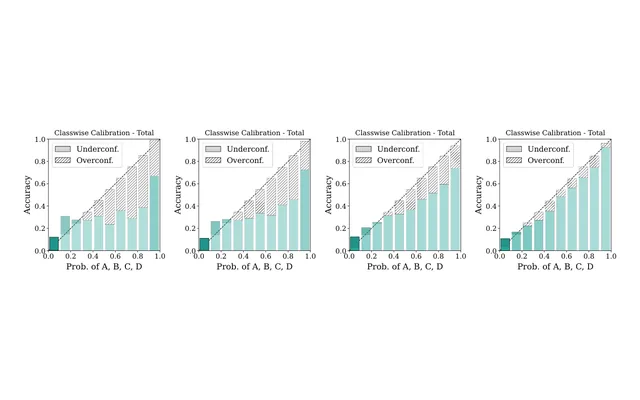
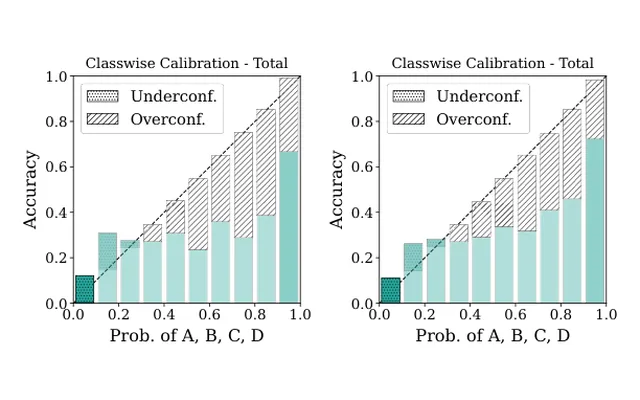
Experience from the résumé, final thumbnails, README and review notes [preview]
Claude-Session: https://claude.ai/code/session_01BAuoegmM5Ps66Ab4iXui3G

Changed region(s): [[0.0312, 0.12, 0.9688, 0.87]]

diff --git a/_pages/about.html b/_pages/about.html
@@ -26,7 +26,7 @@ redirect_from:
     <h1 class="name">Bojian Hou</h1>
     <p class="aka">also published as Bo-Jian Hou · 侯博建</p>
     <p>I am an <strong>AI Research Scientist</strong> at <strong>Meta</strong> in Monetization and Meta Recommendation Systems (MRS). My work centers on LLM-style model architectures and scaling laws for massive-scale ads ranking (e.g., <a href="{{ '/publications/' | relative_url }}#kunlun-kdd26">Kunlun</a>, KDD 2026) and on representation learning that connects organic and ads signals for ranking and retrieval. I also continue my research on trustworthy large language models, especially calibration, uncertainty estimation, and preference alignment.</p>
-    <p>Before joining Meta, I was a postdoctoral researcher in the <a href="https://www.dbei.med.upenn.edu/">Department of Biostatistics, Epidemiology and Informatics</a> at the <a href="https://www.upenn.edu/">University of Pennsylvania</a>, advised by Prof. <a href="https://www.dbei.med.upenn.edu/bio/li-shen-phd-faimbe">Li Shen</a>, where I led a Trustworthy AI research line and mentored 20+ students. Earlier, I was a postdoctoral associate at <a href="https://www.cornell.edu/">Cornell University</a>. I received my B.Sc. and Ph.D. in Computer Science from <a href="https://www.nju.edu.cn/">Nanjing University</a> in 2014 and 2020, supervised by Prof. <a href="https://cs.nju.edu.cn/zhouzh/">Zhi-Hua Zhou</a> in the <a href="https://www.lamda.nju.edu.cn/MainPage.ashx">LAMDA Group</a>.</p>
+    <p>Before joining Meta, I was a postdoctoral fellow in the <a href="https://www.dbei.med.upenn.edu/">Department of Biostatistics, Epidemiology and Informatics</a> at the <a href="https://www.upenn.edu/">University of Pennsylvania</a>, advised by Prof. <a href="https://www.dbei.med.upenn.edu/bio/li-shen-phd-faimbe">Li Shen</a>, where I led a Trustworthy AI research line and mentored 20+ students. Earlier, I was a postdoctoral associate at <a href="https://www.cornell.edu/">Cornell University</a> and a research scientist at 4Paradigm. I received my B.Sc. and Ph.D. in Computer Science from <a href="https://www.nju.edu.cn/">Nanjing University</a> in 2014 and 2020, supervised by Prof. <a href="https://cs.nju.edu.cn/zhouzh/">Zhi-Hua Zhou</a> in the <a href="https://www.lamda.nju.edu.cn/MainPage.ashx">LAMDA Group</a>.</p>
     <p>I am interested in both the theoretical foundations and the real-world deployment of machine learning, and in building AI systems that are technically rigorous, trustworthy, and socially responsible.</p>
   </div>
 </section>
@@ -87,11 +87,12 @@ redirect_from:
   <section class="section" id="experience" aria-labelledby="exp-h">
     <h2 id="exp-h">Experience and Education</h2>
     <ul class="timeline">
-      <li><span class="when">2025 to now</span><span><strong>Meta</strong><br>AI Research Scientist, Meta Recommendation Systems</span></li>
-      <li><span class="when">2022 to 2025</span><span><strong>University of Pennsylvania</strong><br>Postdoctoral Researcher, Department of Biostatistics, Epidemiology and Informatics. Advisor: Prof. Li Shen</span></li>
+      <li><span class="when">2025 to now</span><span><strong>Meta</strong><br>AI Research Scientist, Monetization and Meta Recommendation Systems</span></li>
+      <li><span class="when">2022 to 2025</span><span><strong>University of Pennsylvania</strong><br>Postdoctoral Fellow, Department of Biostatistics, Epidemiology and Informatics. Advisor: Prof. Li Shen</span></li>
       <li><span class="when">2021 to 2022</span><span><strong>Cornell University</strong><br>Postdoctoral Associate</span></li>
-      <li><span class="when">2020</span><span><strong>Nanjing University</strong><br>Ph.D. in Computer Science, LAMDA Group. Advisor: Prof. Zhi-Hua Zhou</span></li>
-      <li><span class="when">2014</span><span><strong>Nanjing University</strong><br>B.Sc. in Computer Science</span></li>
+      <li><span class="when">2020 to 2021</span><span><strong>4Paradigm</strong><br>Research Scientist</span></li>
+      <li><span class="when">2014 to 2020</span><span><strong>Nanjing University</strong><br>Ph.D. in Computer Science, LAMDA Group. Advisor: Prof. Zhi-Hua Zhou</span></li>
+      <li><span class="when">2010 to 2014</span><span><strong>Nanjing University</strong><br>B.Sc. in Computer Science</span></li>
     </ul>
   </section>
   <section class="section" id="awards" aria-labelledby="awards-h">

diff --git a/README.md b/README.md
@@ -1,31 +1,42 @@
-A Github Pages template for academic websites. This was forked (then detached) by [Stuart Geiger](https://github.com/staeiou) from the [Minimal Mistakes Jekyll Theme](https://mmistakes.github.io/minimal-mistakes/), which is © 2016 Michael Rose and released under the MIT License. See LICENSE.md.
+# bojianhou.com
 
-I think I've got things running smoothly and fixed some major bugs, but feel free to file issues or make pull requests if you want to improve the generic template / theme.
+Personal homepage of Bojian Hou, built with Jekyll and served by GitHub Pages from `master`.
+Originally based on the [AcademicPages](https://github.com/academicpages/academicpages.github.io) template
+(itself derived from Minimal Mistakes, MIT License; see `LICENSE`).
 
-### Note: if you are using this repo and now get a notification about a security vulnerability, delete the Gemfile.lock file. 
+## Where things live
 
-# Instructions
+| What | File |
+|---|---|
+| Publications (one entry per paper; drives the homepage and `/publications/`) | `_data/publications.yml` |
+| Topic filters | `_data/topics.yml` |
+| News | `_data/news.yml` |
+| Honors and awards | `_data/awards.yml` |
+| Academic service summary | `_data/service.yml` (full list in `_pages/services.md`) |
+| Research interest areas | `_data/research.yml` |
+| Navigation, selected papers, venue list | `_data/site.yml` |
+| Page templates | `_layouts/rd.html`, `_includes/rd-*.html`, `_includes/pub-*.html`, `_includes/news-list.html` |
+| Styles and script | `assets/css/site.scss`, `assets/js/site.js` |
+| Paper thumbnails | `images/pubs/<id>.webp` |
+| Resume PDF | `files/Bojian_Hou_Resume.pdf` |
 
-1. Register a GitHub account if you don't have one and confirm your e-mail (required!)
-1. Fork [this repository](https://github.com/academicpages/academicpages.github.io) by clicking the "fork" button in the top right. 
-1. Go to the repository's settings (rightmost item in the tabs that start with "Code", should be below "Unwatch"). Rename the repository "[your GitHub username].github.io", which will also be your website's URL.
-1. Set site-wide configuration and create content & metadata (see below -- also see [this set of diffs](http://archive.is/3TPas) showing what files were changed to set up [an example site](https://getorg-testacct.github.io) for a user with the username "getorg-testacct")
-1. Upload any files (like PDFs, .zip files, etc.) to the files/ directory. They will appear at https://[your GitHub username].github.io/files/example.pdf.  
-1. Check status by going to the repository settings, in the "GitHub pages" section
-1. (Optional) Use the Jupyter notebooks or python scripts in the `markdown_generator` folder to generate markdown files for publications and talks from a TSV file.
+## Adding a paper
 
-See more info at https://academicpages.github.io/
+Add an entry at the right place (newest first) in `_data/publications.yml` with `id`, `title`, `authors`
+(exactly as published, `*` equal contribution, `†` corresponding), `venue`, `venue_group`, `year`, `tags`,
+`selected`, `lead`, `links`, and `tldr`. For a thumbnail, add `_sources` (an arXiv id, a PDF URL, a PMC id or an
+image URL) and run the site tools, or drop a 640×400 WebP into `images/pubs/<id>.webp` and set `teaser`.
 
-## To run locally (not on GitHub Pages, to serve on your own computer)
+## Site tools
 
-1. Clone the repository and made updates as detailed above
-1. Make sure you have ruby-dev, bundler, and nodejs installed: `sudo apt install ruby-dev ruby-bundler nodejs`
-1. Run `bundle clean` to clean up the directory (no need to run `--force`)
-1. Run `bundle install` to install ruby dependencies. If you get errors, delete Gemfile.lock and try again.
-1. Run `bundle exec jekyll liveserve` to generate the HTML and serve it from `localhost:4000` the local server will automatically rebuild and refresh the pages on change.
+`scripts/site_tools/` holds scripts that collect paper metadata, download PDFs, crop Figure 1 thumbnails,
+check every publication link, and take screenshots. They run in GitHub Actions
+(`.github/workflows/site-tools.yml`) from the Actions tab, or when a commit message on a non-`master` branch
+contains `[tools]` or `[preview]`. Results are pushed to the `site-tools-output` and `site-preview-output` branches.
 
-# Changelog -- bugfixes and enhancements
+## Local preview
 
-There is one logistical issue with a ready-to-fork template theme like academic pages that makes it a little tricky to get bug fixes and updates to the core theme. If you fork this repository, customize it, then pull again, you'll probably get merge conflicts. If you want to save your various .yml configuration files and markdown files, you can delete the repository and fork it again. Or you can manually patch. 
-
-To support this, all changes to the underlying code appear as a closed issue with the tag 'code change' -- get the list [here](https://github.com/academicpages/academicpages.github.io/issues?q=is%3Aclosed%20is%3Aissue%20label%3A%22code%20change%22%20). Each issue thread includes a comment linking to the single commit or a diff across multiple commits, so those with forked repositories can easily identify what they need to patch.
+```
+bundle install
+bundle exec jekyll serve --config _config.yml,_config.dev.yml
+```

diff --git a/REVIEW.md b/REVIEW.md
@@ -10,6 +10,8 @@ Branch `redesign-2026`. Nothing here is live until this branch is merged into `m
 - **Data files are the single source:** `_data/publications.yml`, `news.yml`, `awards.yml`, `service.yml`, `research.yml`, `topics.yml`, `site.yml`. To add a paper, add one entry to `publications.yml`; the homepage counts, filters and lists update themselves.
 - **Removed AcademicPages leftovers:** sample posts, talks, teaching, portfolio, demo pages and images, `files/paper1-3.pdf`, the sample `_data/authors.yml`, the talkmap and markdown generator.
 - **SEO:** real site description, Open Graph image, JSON-LD `Person`, page titles like "Publications | Bojian Hou". The dead `google-universal` analytics block is switched off.
+- **Experience and education follow the résumé:** Meta (Monetization and MRS), Penn (Postdoctoral Fellow), Cornell, 4Paradigm (Research Scientist, 2020 to 2021, new on the site), Nanjing University Ph.D. 2014 to 2020 and B.Sc. 2010 to 2014. The bio now says "postdoctoral fellow" and mentions 4Paradigm.
+- **Quality checks (latest preview build):** Jekyll builds cleanly with the GitHub Pages gem set; 125 publication links checked, 0 broken (10 publisher pages refuse bots and are marked "blocked"); no horizontal scrolling at 390 px; Lighthouse mobile: home 93 / 100 / 100 / 100, publications 90 / 100 / 100 / 100 (performance / accessibility / best practices / SEO).
 - **Files:** `files/CCFAI'19.pdf` renamed to `files/CCFAI19.pdf` (apostrophes break links).
 
 ## Publications: decisions applied
